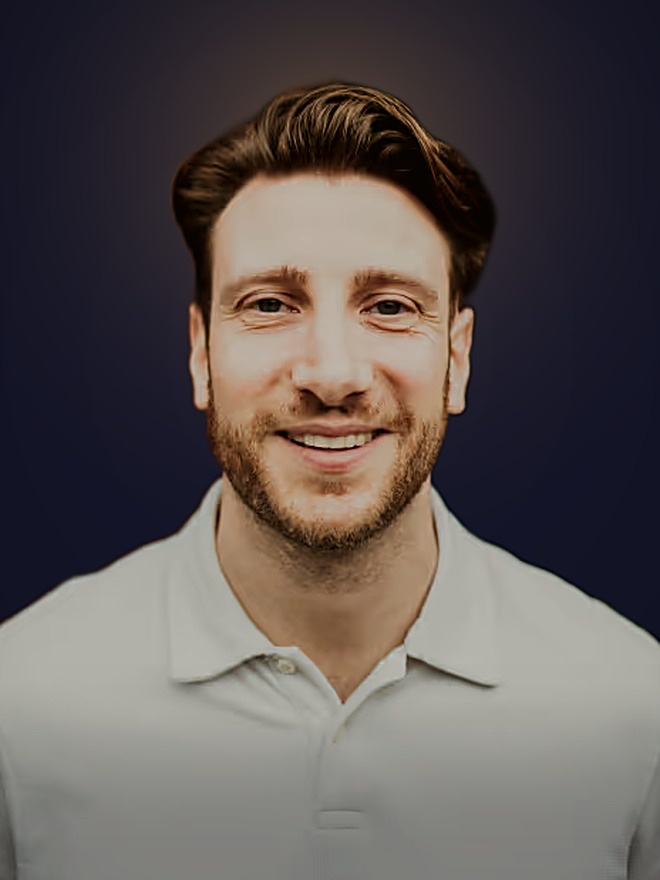
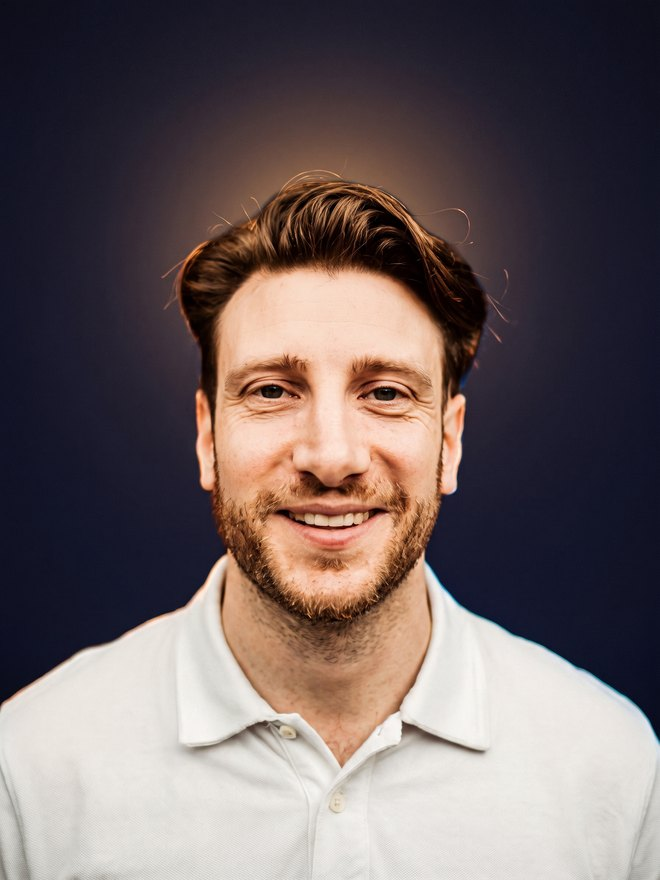
Testimonials: extend nebula wash, orange glowing card frames, relit portraits (no halos)

diff --git a/index.html b/index.html
@@ -171,12 +171,12 @@ h2{font-size:clamp(1.9rem,4.5vw,3rem);font-weight:700;letter-spacing:-.015em;lin
 .j-lines span[data-l="3"]{color:var(--solar)}
 
 /* testimonials */
-.testis{background:linear-gradient(180deg,#000,var(--volcanic))}
+.testis{background:radial-gradient(75% 60% at 30% 8%, rgba(73,41,145,.32), transparent 65%), radial-gradient(55% 45% at 82% 55%, rgba(244,39,137,.13), transparent 70%), linear-gradient(180deg,#0b0a16,var(--volcanic))}
 .testi-head{text-align:center;max-width:34ch;margin:0 auto}
 .tcar-wrap{position:relative;margin-top:2.6rem}
 .tcar{display:flex;gap:1.1rem;overflow-x:auto;scroll-snap-type:x mandatory;padding:.2rem .2rem 1rem;scrollbar-width:none}
 .tcar::-webkit-scrollbar{display:none}
-.tcard{flex:0 0 min(78vw,340px);aspect-ratio:3/4;scroll-snap-align:center;border-radius:18px;overflow:hidden;background-size:cover;background-position:top center;border:1px solid rgba(240,246,249,.14);display:flex;align-items:flex-end;position:relative}
+.tcard{flex:0 0 min(78vw,340px);aspect-ratio:3/4;scroll-snap-align:center;border-radius:18px;overflow:hidden;background-size:cover;background-position:top center;border:1px solid rgba(255,138,61,.55);box-shadow:0 0 22px rgba(255,138,61,.22), 0 0 60px rgba(251,205,102,.10), inset 0 0 0 1px rgba(251,205,102,.12);display:flex;align-items:flex-end;position:relative}
 .tcard::after{content:"";position:absolute;inset:0;background:linear-gradient(180deg,rgba(13,16,48,0) 30%,rgba(11,13,32,.62) 55%,rgba(9,10,24,.96) 100%)}
 .tcard-copy{position:relative;z-index:2;padding:1.15rem 1.15rem 1.2rem}
 .tcard blockquote{font-size:1.02rem;font-weight:700;line-height:1.32;text-shadow:0 1px 14px rgba(0,0,0,.8)}
